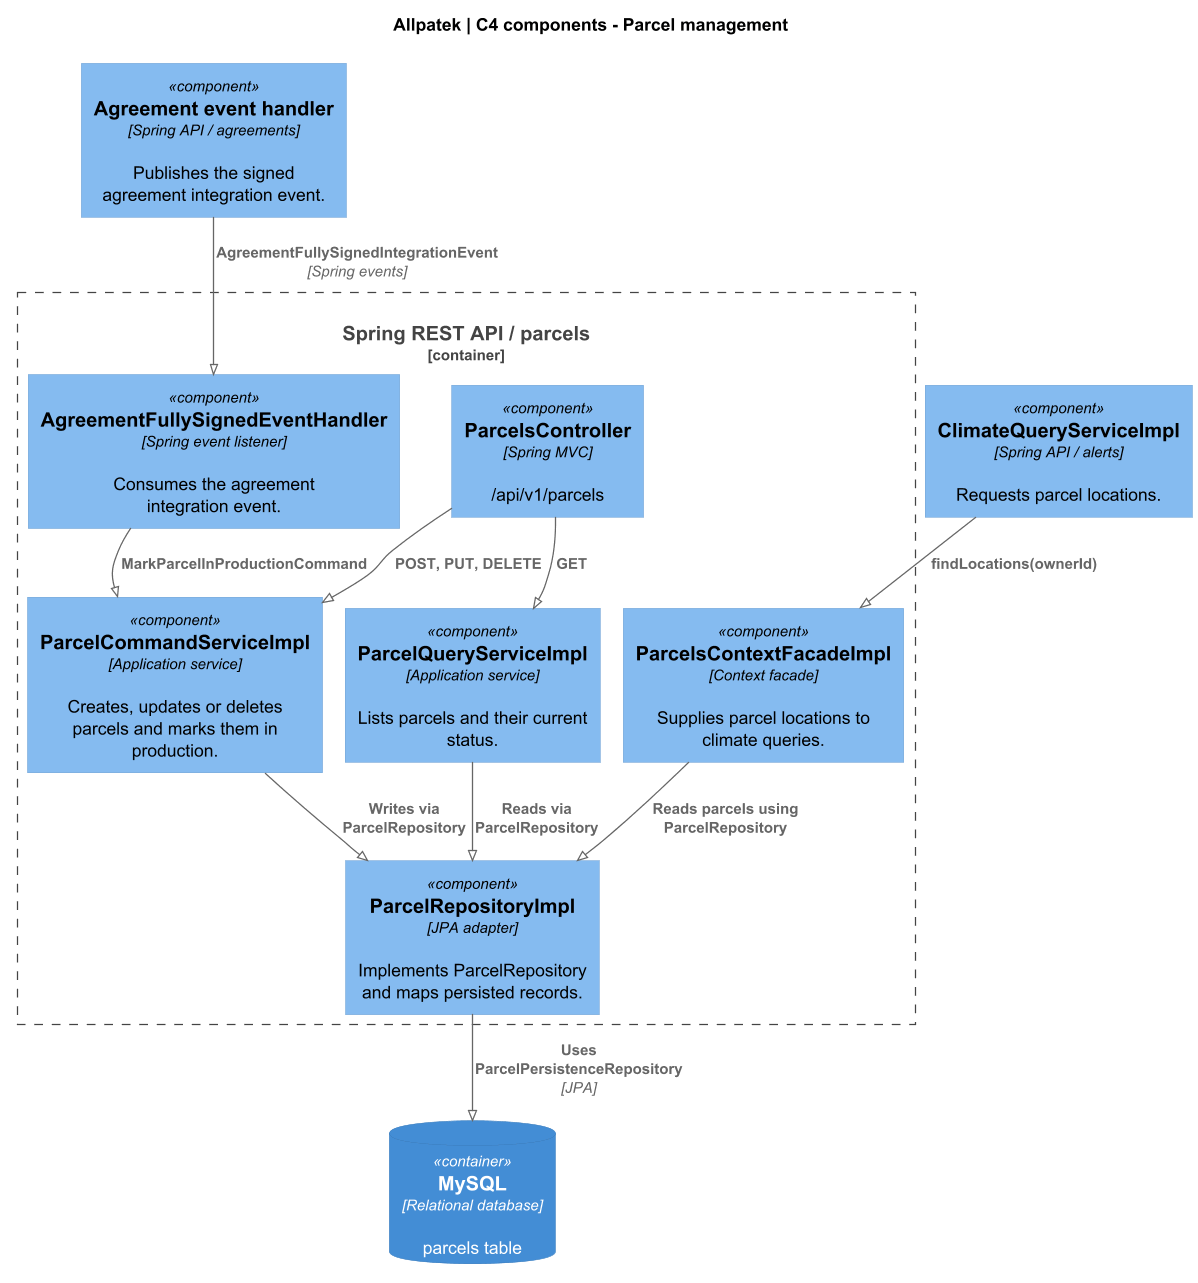
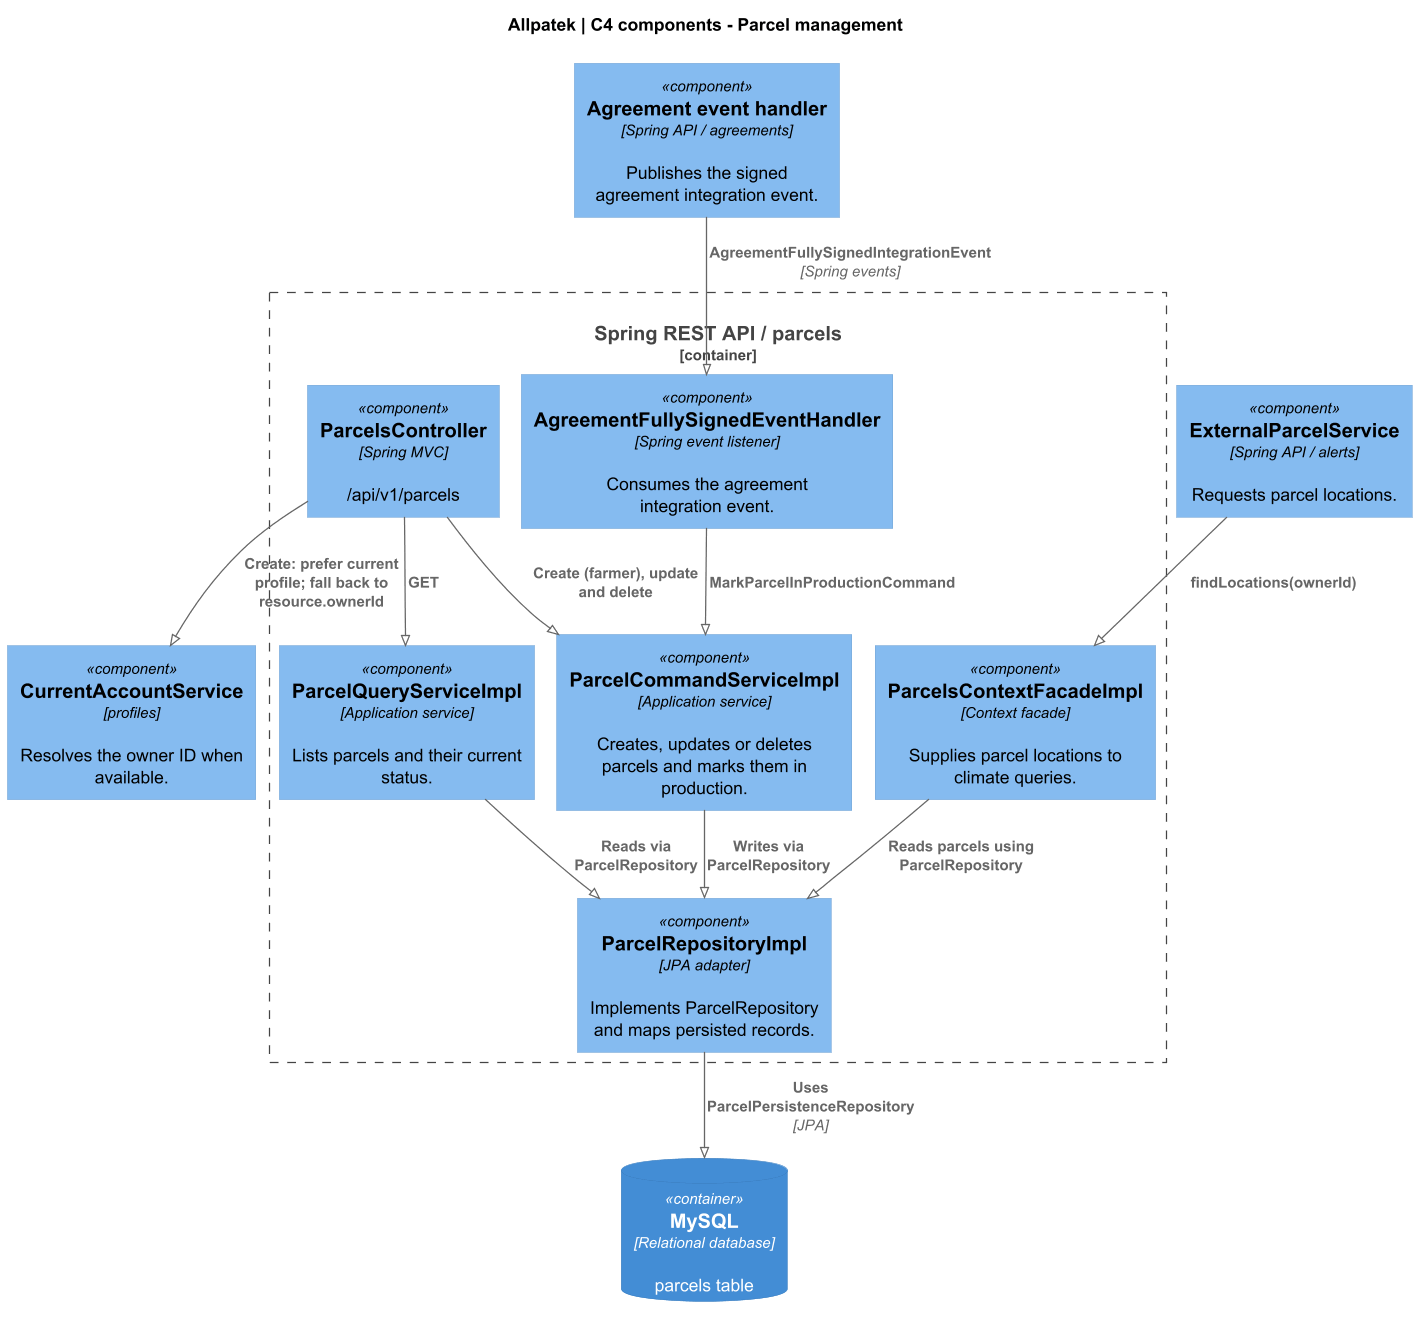
docs(c4): show parcel ownership resolution and the alerts facade

Changed region(s): [[0.0, 0.0, 0.9574, 0.9977], [0.0618, 0.0312, 0.4015, 0.2182], [0.7721, 0.2806, 1.0, 0.4053]]

diff --git a/README.md b/README.md
@@ -2233,7 +2233,7 @@ La landing abre la SPA. El navegador solicita los recursos de negocio a la API y
 
 #### Parcelas en la API
 
-ParcelsController delega la escritura y la consulta. El adaptador JPA guarda la parcela, el manejador de eventos actualiza su estado y la fachada comparte las ubicaciones con Clima.
+`ParcelsController` exige `ROLE_FARMER` al crear. Usa el perfil actual como propietario cuando existe y, en su defecto, el ID recibido. La fachada permite consultar ubicaciones por propietario. Un acuerdo completamente firmado solicita `MarkParcelInProductionCommand`. Un fallo de esa operación queda en el registro del servicio.
 
 ![Figura 4.6.4-E1. Componentes de parcelas](assets/chapter-04/architecture/c4-parcels.png)
 
